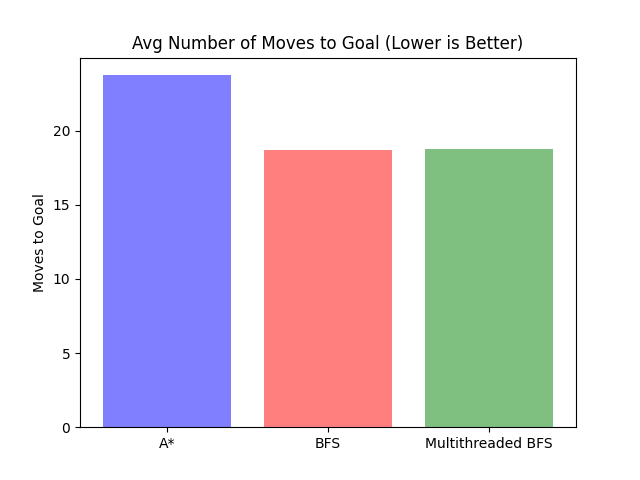
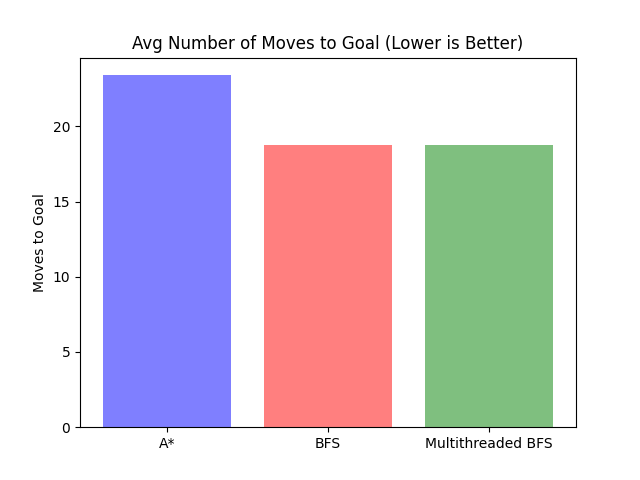
Improved Graphs

diff --git a/src/analyze_search_algs.py b/src/analyze_search_algs.py
@@ -17,15 +17,15 @@ while True:
     except:
         print('Invalid input. Please enter an integer.')
 
-a_star_num_moves_to_goal_avg = 0
+a_star_num_moves_to_goal_results = []
 a_star_num_nodes_visited_results = []
 a_star_time_taken_ms_results = []
 
-bfs_num_moves_to_goal_avg = 0
+bfs_num_moves_to_goal_results = []
 bfs_num_nodes_visited_results = []
 bfs_time_taken_ms_results = []
 
-multithreaded_bfs_num_moves_to_goal_avg = 0
+multithreaded_bfs_num_moves_to_goal_results= []
 multithreaded_bfs_num_nodes_visited_results = []
 multithreaded_bfs_time_taken_ms_results = []
 
@@ -37,17 +37,17 @@ for i in range(0, num_times_to_run):
     node = cppyy.gbl.generate_random_start_node()
     
     a_star_result = cppyy.gbl.a_star_search(node)
-    a_star_num_moves_to_goal_avg += (a_star_result.path_to_goal.size() - a_star_num_moves_to_goal_avg) / (i + 1)
+    a_star_num_moves_to_goal_results.append(a_star_result.path_to_goal.size())
     a_star_num_nodes_visited_results.append(a_star_result.num_nodes_visited)
     a_star_time_taken_ms_results.append(a_star_result.time_taken_ms)
 
     bfs_result = cppyy.gbl.breadth_first_search(node)
-    bfs_num_moves_to_goal_avg += (bfs_result.path_to_goal.size() - bfs_num_moves_to_goal_avg) / (i + 1)
+    bfs_num_moves_to_goal_results.append(bfs_result.path_to_goal.size())
     bfs_num_nodes_visited_results.append(bfs_result.num_nodes_visited)
     bfs_time_taken_ms_results.append(bfs_result.time_taken_ms)
 
     multithreaded_bfs_result = cppyy.gbl.multithreaded_breadth_first_search(node)
-    multithreaded_bfs_num_moves_to_goal_avg += (multithreaded_bfs_result.path_to_goal.size() - multithreaded_bfs_num_moves_to_goal_avg) / (i + 1)
+    multithreaded_bfs_num_moves_to_goal_results.append(multithreaded_bfs_result.path_to_goal.size())
     multithreaded_bfs_num_nodes_visited_results.append(multithreaded_bfs_result.num_nodes_visited)
     multithreaded_bfs_time_taken_ms_results.append(multithreaded_bfs_result.time_taken_ms)
 
@@ -58,25 +58,45 @@ plt.title('Nodes Visited vs Runtime (ms)')
 plt.xlabel('Nodes Visited')
 plt.ylabel('Runtime (ms)')
 
-plt.plot(a_star_num_nodes_visited_results, a_star_time_taken_ms_results, 'o', label='A*', color='blue', markersize=5)
-plt.plot(bfs_num_nodes_visited_results, bfs_time_taken_ms_results, 'o', label='BFS', color='red', markersize=5)
-plt.plot(multithreaded_bfs_num_nodes_visited_results, multithreaded_bfs_time_taken_ms_results, 'o', label='Multithreaded BFS', color='green', markersize=5)
+plt.plot(multithreaded_bfs_num_nodes_visited_results, multithreaded_bfs_time_taken_ms_results, 's', label='Multithreaded BFS', color='green', markersize=3, alpha=0.33)
+plt.plot(bfs_num_nodes_visited_results, bfs_time_taken_ms_results, 'o', label='BFS', color='red', markersize=3, alpha=0.33)
+plt.plot(a_star_num_nodes_visited_results, a_star_time_taken_ms_results, '^', label='A*', color='blue', markersize=3, alpha=0.33)
 
 plt.legend()
 
-a_star_slope, a_star_intercept = np.polyfit(a_star_num_nodes_visited_results, a_star_time_taken_ms_results, 1)
-a_star_line_of_best_fit = a_star_slope * np.array(a_star_num_nodes_visited_results) + a_star_intercept
-plt.plot(a_star_num_nodes_visited_results, a_star_line_of_best_fit, '-', label='A*', color='blue')
-
-bfs_slope, bfs_intercept = np.polyfit(bfs_num_nodes_visited_results, bfs_time_taken_ms_results, 1)
-bfs_line_of_best_fit = bfs_slope * np.array(bfs_num_nodes_visited_results) + bfs_intercept
-plt.plot(bfs_num_nodes_visited_results, bfs_line_of_best_fit, '-', label='BFS', color='red')
-
-multithreaded_bfs_slope, multithreaded_bfs_intercept = np.polyfit(multithreaded_bfs_num_nodes_visited_results, multithreaded_bfs_time_taken_ms_results, 1)
-multithreaded_bfs_line_of_best_fit = multithreaded_bfs_slope * np.array(multithreaded_bfs_num_nodes_visited_results) + multithreaded_bfs_intercept
-plt.plot(multithreaded_bfs_num_nodes_visited_results, multithreaded_bfs_line_of_best_fit, '-', label='Multithreaded BFS', color='green')
-
 plt.savefig('./out/figs/nodes-visited-vs-runtime.png')
+plt.show()
+
+
+# Plot Moves to Goal vs Nodes Visited.
+plt.title('Moves to Goal vs Nodes Visited')
+plt.xlabel('Moves to Goal')
+plt.ylabel('Nodes Visited')
+
+plt.plot(multithreaded_bfs_num_moves_to_goal_results, multithreaded_bfs_num_nodes_visited_results, 's', label='Multithreaded BFS', color='green', markersize=3, alpha=0.33)
+plt.plot(bfs_num_moves_to_goal_results, bfs_num_nodes_visited_results, 'o', label='BFS', color='red', markersize=3, alpha=0.33)
+plt.plot(a_star_num_moves_to_goal_results, a_star_num_nodes_visited_results, '^', label='A*', color='blue', markersize=3, alpha=0.33)
+
+plt.legend()
+
+plt.subplots_adjust(left=0.15)
+
+plt.savefig('./out/figs/moves-to-goal-vs-nodes-visited.png')
+plt.show()
+
+
+# Plot Moves to Goal vs Runtime (ms).
+plt.title('Moves to Goal vs Runtime (ms)')
+plt.xlabel('Moves to Goal')
+plt.ylabel('Runtime (ms)')
+
+plt.plot(multithreaded_bfs_num_moves_to_goal_results, multithreaded_bfs_time_taken_ms_results, 's', label='Multithreaded BFS', color='green', markersize=3, alpha=0.33)
+plt.plot(bfs_num_moves_to_goal_results, bfs_time_taken_ms_results, 'o', label='BFS', color='red', markersize=3, alpha=0.33)
+plt.plot(a_star_num_moves_to_goal_results, a_star_time_taken_ms_results, '^', label='A*', color='blue', markersize=3, alpha=0.33)
+
+plt.legend()
+
+plt.savefig('./out/figs/moves-to-goal-vs-runtime.png')
 plt.show()
 
 
@@ -87,9 +107,9 @@ labels = ['A*', 'BFS', 'Multithreaded BFS']
 colors = ['blue', 'red', 'green']
 x_pos = np.arange(len(labels))
 num_moves_avgs = [
-    a_star_num_moves_to_goal_avg,
-    bfs_num_moves_to_goal_avg,
-    multithreaded_bfs_num_moves_to_goal_avg,
+    np.average(a_star_num_moves_to_goal_results),
+    np.average(bfs_num_moves_to_goal_results),
+    np.average(multithreaded_bfs_num_moves_to_goal_results),
 ]
 
 plt.bar(x_pos, num_moves_avgs, align='center', alpha=0.5, color=colors)
@@ -112,6 +132,7 @@ num_nodes_visited_avgs = [
 plt.bar(x_pos, num_nodes_visited_avgs, align='center', alpha=0.5, color=colors)
 plt.xticks(x_pos, labels)
 plt.ylabel('Nodes Visited')
+plt.subplots_adjust(left=0.15)
 
 plt.savefig('./out/figs/avg-num-nodes-visited.png')
 plt.show()
@@ -130,5 +151,5 @@ plt.bar(x_pos, time_taken_avgs, align='center', alpha=0.5, color=colors)
 plt.xticks(x_pos, labels)
 plt.ylabel('Runtime (ms)')
 
-plt.savefig('./out/figs/avg-runtime-ms.png')
+plt.savefig('./out/figs/avg-runtime.png')
 plt.show()

diff --git a/README.md b/README.md
@@ -1,7 +1,13 @@
 # cs4306-course-project
 Course Project for Algorithm Analysis at KSU. This project investigates different algorithms to solve the Eight Puzzle Problem including parallel and heuristic algorithms.
 
-## Dependencies
+## Eight Puzzle Problem Analysis
+A detailed analysis of the algorithms used to solve the Eight Puzzle Problem can be found [here](/docs/eight-puzzle-algoritm-analysis.md).
+
+## Project Setup
+This project uses CMake to build the C++ code and Python to run the GUI and requires some setup. The following instructions are for Windows, Linux, and MacOS.
+
+### Dependencies
 In order to build the project, you will need to install the following dependencies:
 - [CMake](https://cmake.org/download/)
 - [C++ Compiler](https://gcc.gnu.org/install/)
@@ -9,21 +15,22 @@ In order to build the project, you will need to install the following dependenci
 - [Python 3 Pip](https://pip.pypa.io/en/stable/installation/)
 - [Python 3 Tkinter](https://tkdocs.com/tutorial/install.html)
 
-## Configure Project
+### Configure Project
 To build the project, required Python packages must be installed and the project must be configured using CMake. To do this run the following command in the project root:
-### Windows
+
+#### Windows
 ```bash
 configure.bat
 ```
-### Linux & MacOS
+#### Linux & MacOS
 ```bash
 ./configure.sh
 ```
 
-## Building and Running
+### Building and Running
 To build and run the project, run the following commands in the project root:
 
-### Windows
+#### Windows
 Build the project
 ```bash
 build.bat
@@ -39,7 +46,7 @@ Run the Algorithm Analyzer
 analyze_search_algs.bat
 ```
 
-### Linux & MacOS
+#### Linux & MacOS
 Build the project
 ```bash
 ./build.sh
@@ -54,9 +61,3 @@ Run the Algorithm Analyzer
 ```bash
 ./analyze_search_algs.sh
 ```
-
-## Results
-![Nodes Visited vs Runtime (ms)](/assets/nodes-visited-vs-runtime.png)
-![Avg Moves to Goal](/assets/avg-moves-to-goal.png)
-![Avg Nodes Visited](/assets/avg-num-nodes-visited.png)
-![Avg Runtime (ms)](/assets/avg-runtime-ms.png)
